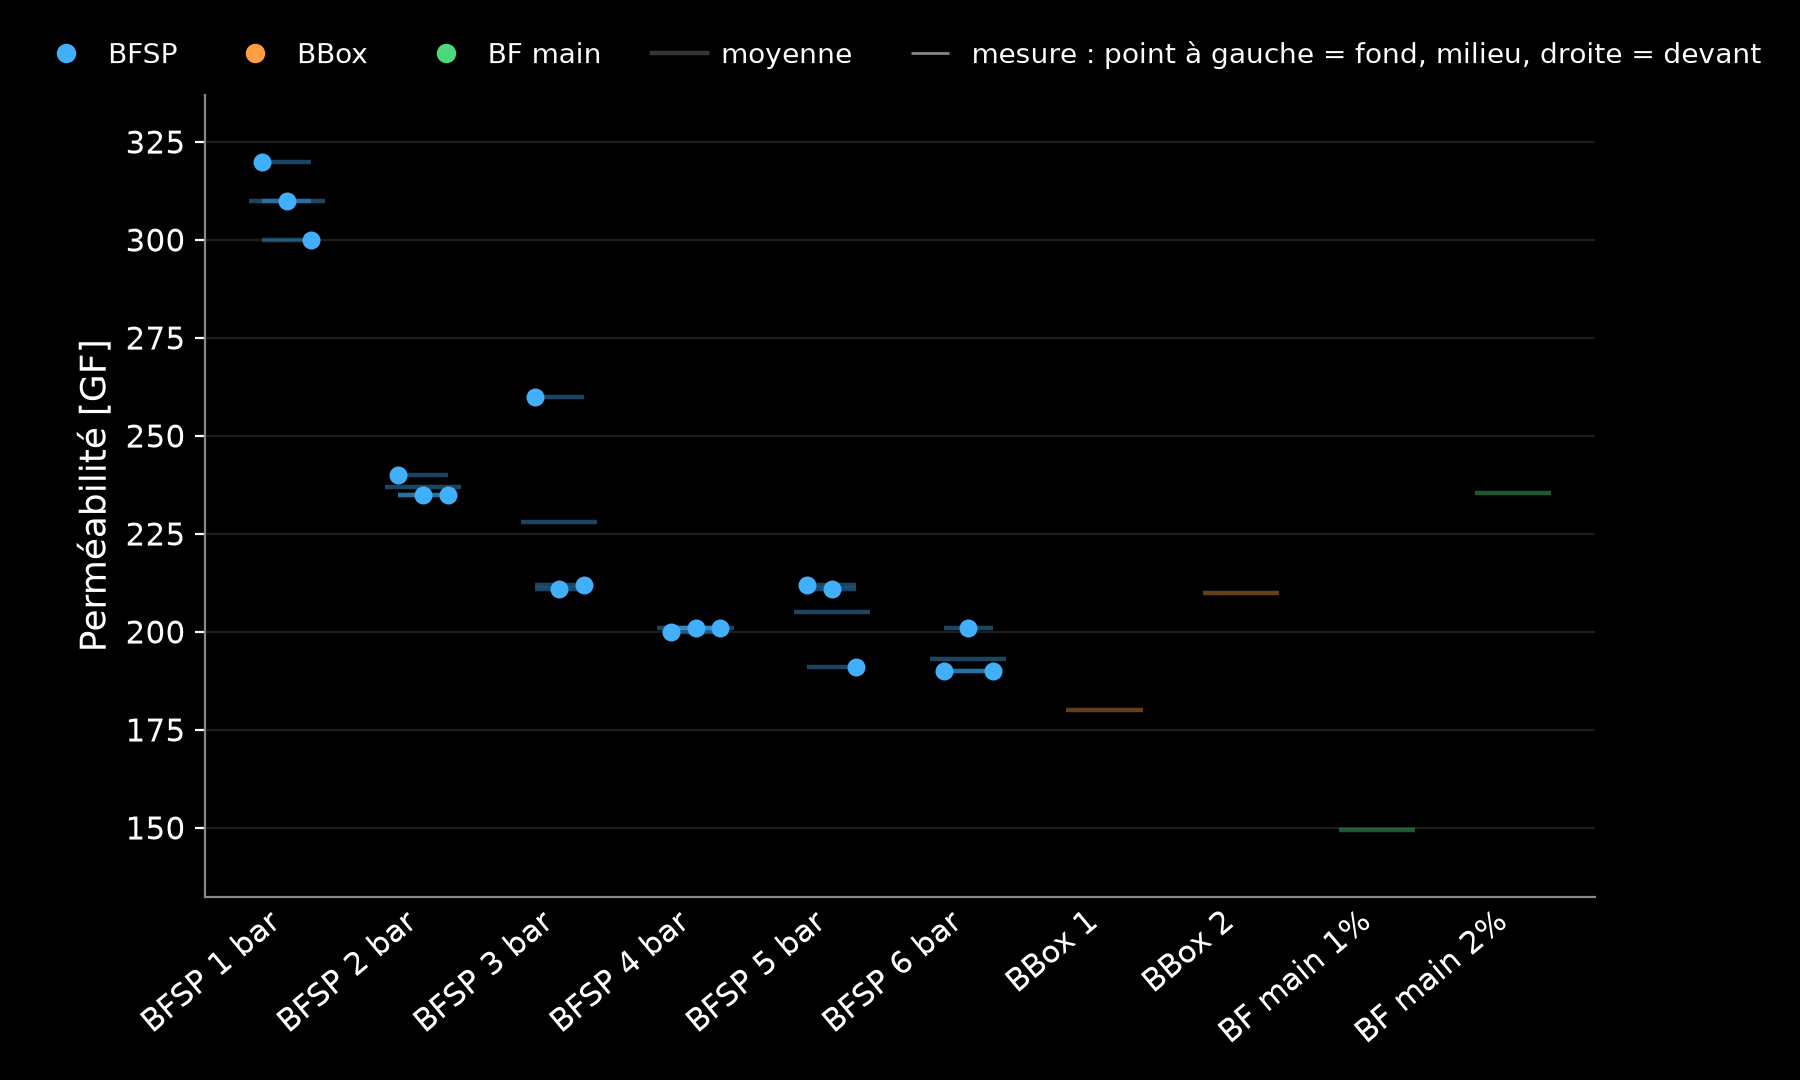
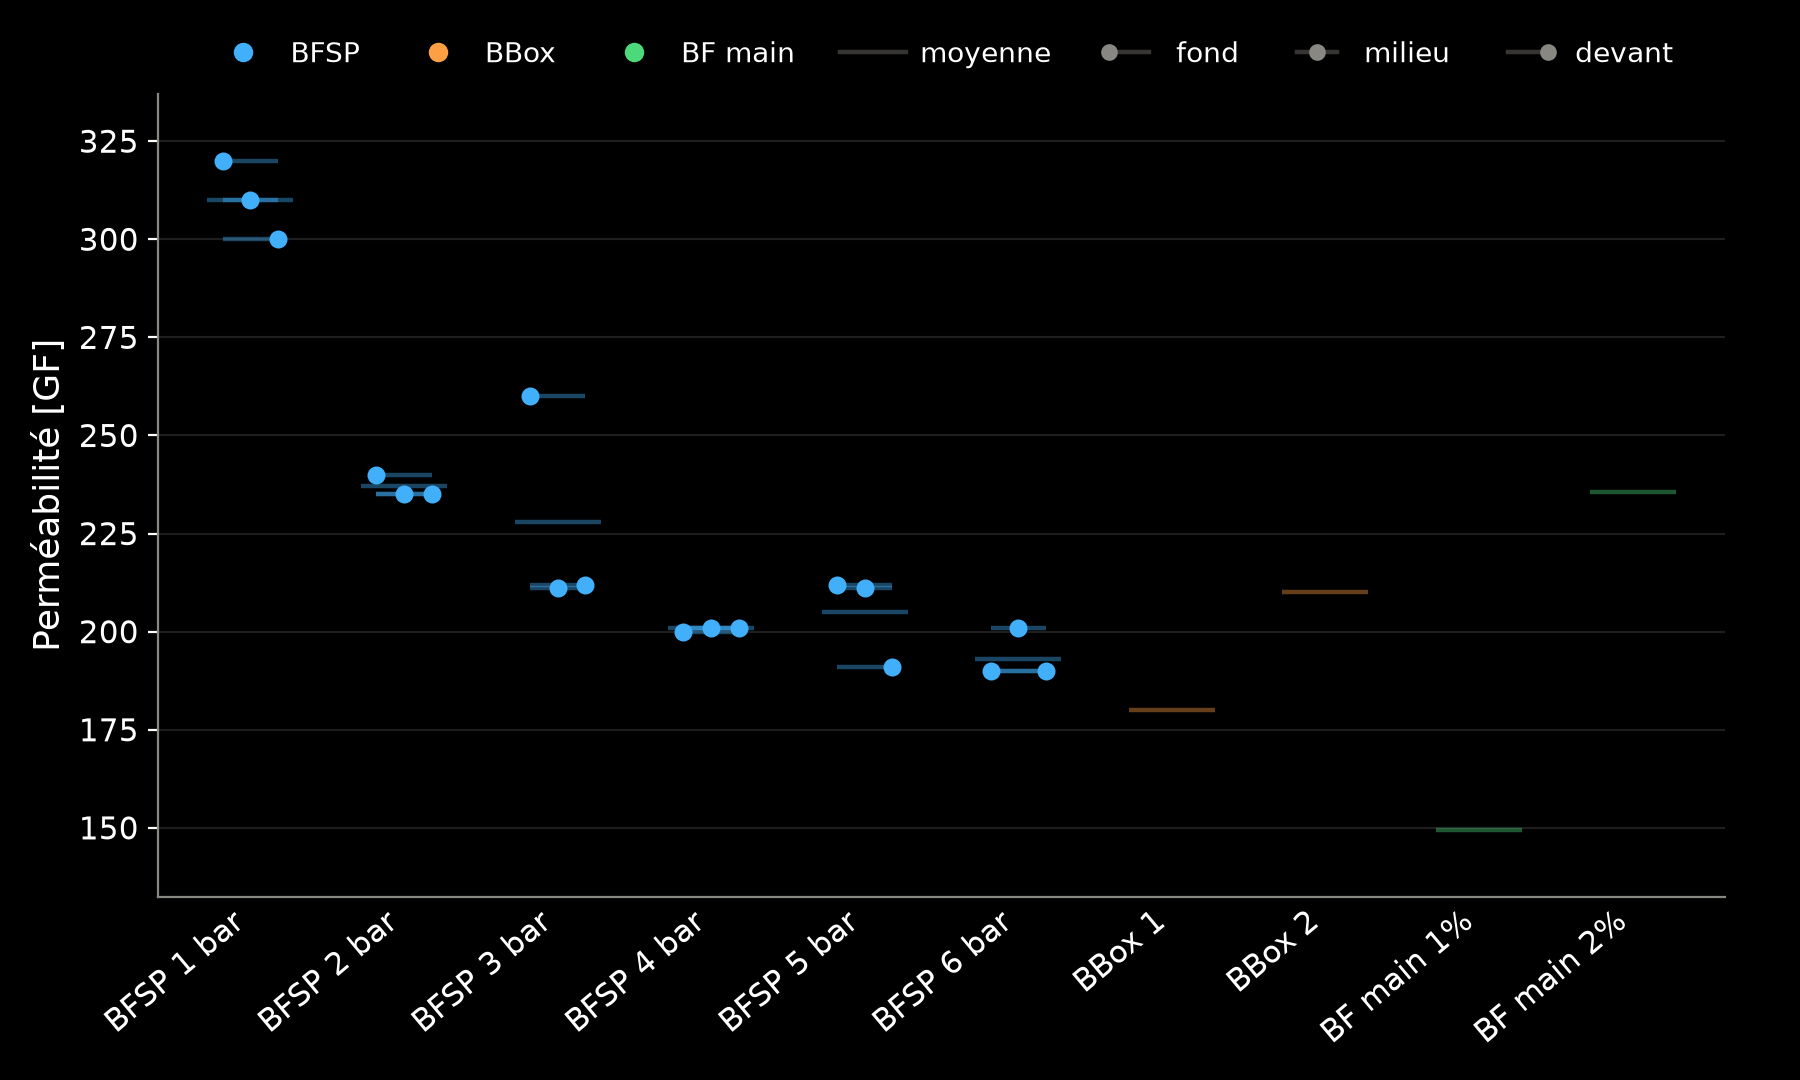
Legend: exact line+dot glyphs for fond/milieu/devant

diff --git a/index.html b/index.html
@@ -96,7 +96,7 @@
     <!-- Idealised force-displacement curves for pressures 1-6 bar (scripts/plot_theory.py) -->
     <section class="centered">
       <figure>
-        <img src="figures/courbes_theoriques_dark.png?v=8" alt="Courbes force-déplacement idéalisées pour des pressions de 1 à 6 bar : chaque courbe monte jusqu'à un maximum puis redescend, le maximum augmente avec la pression en se saturant.">
+        <img src="figures/courbes_theoriques_dark.png?v=9" alt="Courbes force-déplacement idéalisées pour des pressions de 1 à 6 bar : chaque courbe monte jusqu'à un maximum puis redescend, le maximum augmente avec la pression en se saturant.">
       </figure>
       <aside class="notes">
         <p class="fact">Courbes qualitatives, pas des mesures : modèle simplifié (montée, pic F_max, adoucissement jusqu'à un palier). F_max augmente avec la pression et sature ; même forme de courbe pour toutes les pressions.</p>
@@ -172,7 +172,7 @@
     <section>
       <section class="centered">
         <figure>
-          <img src="figures/masse_dark.png?v=8" alt="Nuage de points de la masse en grammes par échantillon : BFSP 1 à 6 bar de 135 à 143 g, BBox 1 et 2 vers 149 g, BF main 1 % et 2 % vers 152 g.">
+          <img src="figures/masse_dark.png?v=9" alt="Nuage de points de la masse en grammes par échantillon : BFSP 1 à 6 bar de 135 à 143 g, BBox 1 et 2 vers 149 g, BF main 1 % et 2 % vers 152 g.">
         </figure>
         <aside class="notes"><p>[...]</p></aside>
       </section>
@@ -249,7 +249,7 @@
     <section>
       <section class="centered">
         <figure>
-          <img src="figures/permeabilite_dark.png?v=8" alt="Nuage de points de la perméabilité par échantillon : BFSP de 310 à 193, BBox 180 et 210, BF main 149,5 et 235,5.">
+          <img src="figures/permeabilite_dark.png?v=9" alt="Nuage de points de la perméabilité par échantillon : BFSP de 310 à 193, BBox 180 et 210, BF main 149,5 et 235,5.">
         </figure>
         <aside class="notes"><p>[...]</p></aside>
       </section>
@@ -327,8 +327,8 @@
       <section class="centered">
         <!-- first image fades out when the BFSP-only plot (own y axis) fades in -->
         <div class="r-stack">
-          <img class="fragment fade-out" data-fragment-index="0" src="figures/cisaillement_dark.png?v=8" alt="Nuage de points de la force maximale en newtons par échantillon : BFSP de 673 à 1161, BBox 411 et 431, BF main 1834 et 5226.">
-          <img class="fragment" data-fragment-index="0" src="figures/cisaillement_bfsp_dark.png?v=8" alt="Même nuage de points, limité à BFSP 1 à 6 bar, avec un axe vertical plus resserré.">
+          <img class="fragment fade-out" data-fragment-index="0" src="figures/cisaillement_dark.png?v=9" alt="Nuage de points de la force maximale en newtons par échantillon : BFSP de 673 à 1161, BBox 411 et 431, BF main 1834 et 5226.">
+          <img class="fragment" data-fragment-index="0" src="figures/cisaillement_bfsp_dark.png?v=9" alt="Même nuage de points, limité à BFSP 1 à 6 bar, avec un axe vertical plus resserré.">
         </div>
         <aside class="notes"><p>[...]</p></aside>
       </section>

diff --git a/scripts/plot_scatter.py b/scripts/plot_scatter.py
@@ -17,6 +17,7 @@ from pathlib import Path
 import matplotlib
 matplotlib.use("Agg")
 import matplotlib.pyplot as plt
+from matplotlib.legend_handler import HandlerBase
 from matplotlib.lines import Line2D
 
 root = Path(__file__).resolve().parent.parent
@@ -36,6 +37,28 @@ THEMES = {
     "dark": dict(bg="#000000", fg="#ffffff", muted="#898781", grid=(1, 1, 1, 0.12)),
     "light": dict(bg="#ffffff", fg="#111111", muted="#6b6b6b", grid=(0, 0, 0, 0.12)),
 }
+
+
+class MeasureHandler(HandlerBase):
+    """Legend glyph identical to the plot: short line with a dot at left/middle/right."""
+
+    def __init__(self, dot_pos, half=0.36, alpha=0.4, lw=1.6, color="grey"):
+        super().__init__()
+        self.dot_pos, self.half, self.alpha, self.lw, self.color = dot_pos, half, alpha, lw, color
+
+    def create_artists(self, legend, orig_handle, xdescent, ydescent, width, height,
+                       fontsize, trans):
+        cy = height / 2 - ydescent
+        mid = xdescent + width / 2
+        x0, x1 = mid - self.half * width, mid + self.half * width
+        line = Line2D([x0, x1], [cy, cy], color=self.color, alpha=self.alpha,
+                      linewidth=self.lw, transform=trans)
+        artists = [line]
+        if self.dot_pos is not None:
+            dx = x0 + self.dot_pos * (x1 - x0)
+            artists.append(Line2D([dx], [cy], marker="o", markersize=5, linestyle="",
+                                  color=self.color, transform=trans))
+        return artists
 
 
 def read_table(table_id):
@@ -93,12 +116,16 @@ for out_name, table_id, label, keep in PLOTS:
         ax.margins(y=0.1)
         handles = [Line2D([], [], marker="o", linestyle="", color=col, label=g)
                    for g, col in COLORS.items() if keep is None or g in keep]
-        handles += [Line2D([], [], color=c["muted"], linewidth=1.6, alpha=0.4, label="moyenne"),
-                    Line2D([], [], marker="_", markersize=14, linestyle="", color=c["muted"],
-                           label="mesure : point à gauche = fond, milieu, droite = devant")]
-        ax.legend(handles=handles, loc="lower center", bbox_to_anchor=(0.5, 1.0),
-                  ncol=len(handles), frameon=False, fontsize=10, labelcolor=c["fg"],
-                  columnspacing=1.8, handletextpad=0.5)
+        sym = [("moyenne", None, 0.5), ("fond", 0.0, 0.3), ("milieu", 0.5, 0.3),
+               ("devant", 1.0, 0.3)]
+        hmap = {}
+        for label, dot_pos, half in sym:
+            h = Line2D([], [], label=label)
+            handles.append(h)
+            hmap[h] = MeasureHandler(dot_pos, half=half, color=c["muted"])
+        ax.legend(handles=handles, handler_map=hmap, loc="lower center",
+                  bbox_to_anchor=(0.5, 1.0), ncol=len(handles), frameon=False, fontsize=10,
+                  labelcolor=c["fg"], columnspacing=1.6, handletextpad=0.5, handlelength=2.4)
         fig.tight_layout()
         fig.savefig(root / "figures" / f"{out_name}_{theme}.png", facecolor=c["bg"])
         plt.close(fig)
